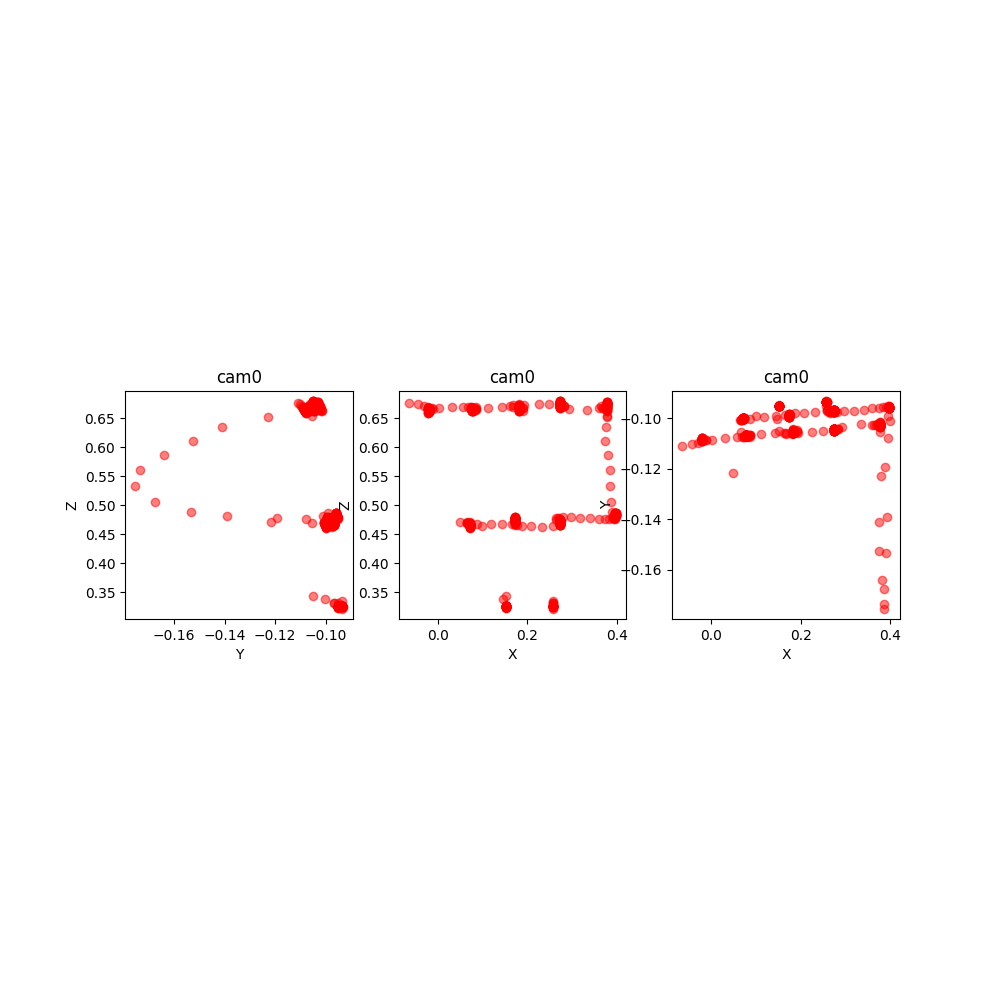
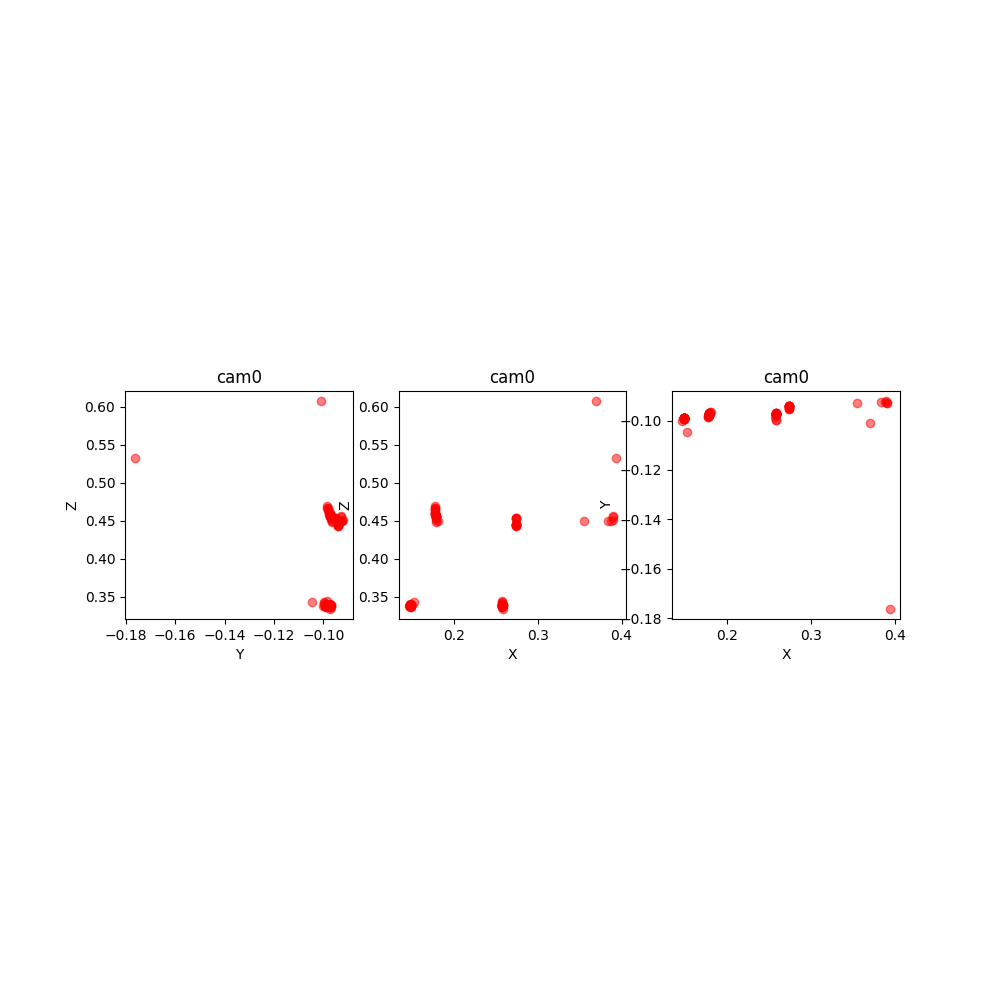
Add reproduction results

diff --git a/real_time_localization/real_time_localization.py b/real_time_localization/real_time_localization.py
@@ -4,9 +4,11 @@ import numpy as np
 import os
 import pickle
 from datetime import datetime
+import tqdm
+
 
 class Capture:
-    def __init__(self, cameras):
+    def __init__(self, cameras = None):
         try:
             with open('setting.json', 'r') as f:
                 self.settings = json.load(f)
@@ -14,15 +16,26 @@ class Capture:
             raise Exception(f"Error loading settings from setting.json")
         
         self.cameras = cameras
-        self.reference_shape = self.cameras[0].read()[1].shape[:2]
+        if cameras is not None:
+            self.reference_shape = self.cameras[0].read()[1].shape[:2]
+        else:
+            self.reference_shape = None
         
 
     def __del__(self):
-        for i in range(len(self.cameras)):
-            self.cameras[i].release()
+        if self.cameras is not None:
+            for i in range(len(self.cameras)):
+                self.cameras[i].release()
             
     def __str__(self):
         return json.dumps(self.settings, indent=4)
+    
+    def open_cameras(self, cameras):
+        self.cameras = cameras
+        if cameras is not None:
+            self.reference_shape = self.cameras[0].read()[1].shape[:2]
+        else:
+            self.reference_shape = None
             
     def default_capture(self, frame, camera_name):
         return frame
@@ -34,6 +47,7 @@ class Capture:
         internal_corners_Y = row_number - 1
         gray = cv2.cvtColor(frame, cv2.COLOR_BGR2GRAY)
         ret, corners = cv2.findChessboardCorners(gray, (internal_corners_Y, internal_corners_X), None, getattr(cv2, self.settings['chessboard_flags']))
+        frame_data = []
         if ret:
             text = "Detected"
             font = cv2.FONT_HERSHEY_SIMPLEX
@@ -45,10 +59,48 @@ class Capture:
             center_y = frame.shape[0] // 2
             org = (center_x - text_width // 2, center_y + text_height // 2)
             cv2.putText(frame, text, org, font, font_scale, color, thickness, cv2.LINE_AA)
-        return corners
+            frame_data.append(text)
+        return frame_data
         
     def charuco_capture(self, frame, camera_name):
         pass
+    
+    def reproduce_capture(self, capture_function, video_path):
+        cap = cv2.VideoCapture(video_path)
+        self.width = int(cap.get(cv2.CAP_PROP_FRAME_WIDTH))
+        self.height = int(cap.get(cv2.CAP_PROP_FRAME_HEIGHT))
+        self.reference_shape = (self.height, self.width//len(self.settings['cameras']))
+        out = cv2.VideoWriter(f"output/{video_path.split('/')[-1].split('.')[0]}_reproduce.mp4", cv2.VideoWriter_fourcc(*'mp4v'), 24, (self.width, self.height))
+        data = []
+        
+        total_frames = int(cap.get(cv2.CAP_PROP_FRAME_COUNT))
+
+        for _ in tqdm.tqdm(range(total_frames)):
+            ret, frame = cap.read()
+            if not ret:
+                break
+            
+            frame_data = {}
+            frames = self.frame_slicing(frame)
+            for i in range(len(self.settings['cameras'])):
+                camera_name = self.settings['cameras'][i]
+                frame_data[camera_name] = capture_function(frames[i], camera_name)
+            data.append(frame_data)
+            
+            out.write(self.frame_concatent(frames, self.reference_shape))
+
+        json_data = []
+        for frame_data in data:
+            frame_json = {}
+            for camera_name, positions in frame_data.items():
+                frame_json[camera_name] = [pos.tolist() for pos in positions]
+            json_data.append(frame_json)
+
+        with open(f"output/{video_path.split('/')[-1].split('.')[0]}_reproduce.json", 'w') as f:
+            json.dump(json_data, f, indent=2)
+            
+        out.release()
+        cap.release()
     
     def save_video(self, capture_function = None, save_preview = False):
         if capture_function is None:
@@ -81,7 +133,6 @@ class Capture:
         out = cv2.VideoWriter(filename, fourcc, 24, (self.width, self.height))
 
         data = []
-        frame_count = 0
         while True:
             frames = []
             show_frames = []
@@ -104,7 +155,6 @@ class Capture:
             cv2.imshow('Frames', show_frame)
             
             data.append(frame_data)
-            frame_count += 1
             if cv2.waitKey(1) & 0xFF == ord('q'):
                 break
 
@@ -126,9 +176,17 @@ class Capture:
             frames[i] = cv2.resize(frames[i], (reference_shape[1], reference_shape[0]))
         return np.concatenate(frames, axis=1)
     
+    def frame_slicing(self, frame):
+        frames = []
+        width = frame.shape[1] // len(self.settings['cameras'])
+        height = frame.shape[0]
+        for i in range(len(self.settings['cameras'])):
+            frames.append(frame[:, i * width:(i + 1) * width])
+        return frames
+    
     
 class Localization(Capture):
-    def __init__(self, cameras):
+    def __init__(self, cameras = None):
         super().__init__(cameras)
         self.cameras_mtx = {}
         self.cameras_dist = {}
@@ -165,7 +223,8 @@ class Localization(Capture):
     
         
 def main():
-    localization = Localization([cv2.VideoCapture(1), cv2.VideoCapture(3), cv2.VideoCapture(2)])
-    localization.save_video(localization.localization, save_preview = True)
+    # localization = Localization([cv2.VideoCapture(1), cv2.VideoCapture(3), cv2.VideoCapture(2)])
+    localization = Localization()
+    localization.reproduce_capture(localization.localization, 'output/20251001_183755.mp4')
 if __name__ == "__main__":
     main()

diff --git a/real_time_localization/result_analysis.py b/real_time_localization/result_analysis.py
@@ -109,7 +109,7 @@ class ResultAnalysis:
         ax.legend(self.settings['cameras'])
         
 def main():
-    result_analysis = ResultAnalysis('output/20251001_183755.json')
+    result_analysis = ResultAnalysis('output/20251001_183755_reproduce.json')
     result_analysis.calculate_inter_camera_difference('cam0')
     result_analysis.calculate_inter_camera_difference('cam1')
     result_analysis.calculate_inter_camera_difference('cam2')
